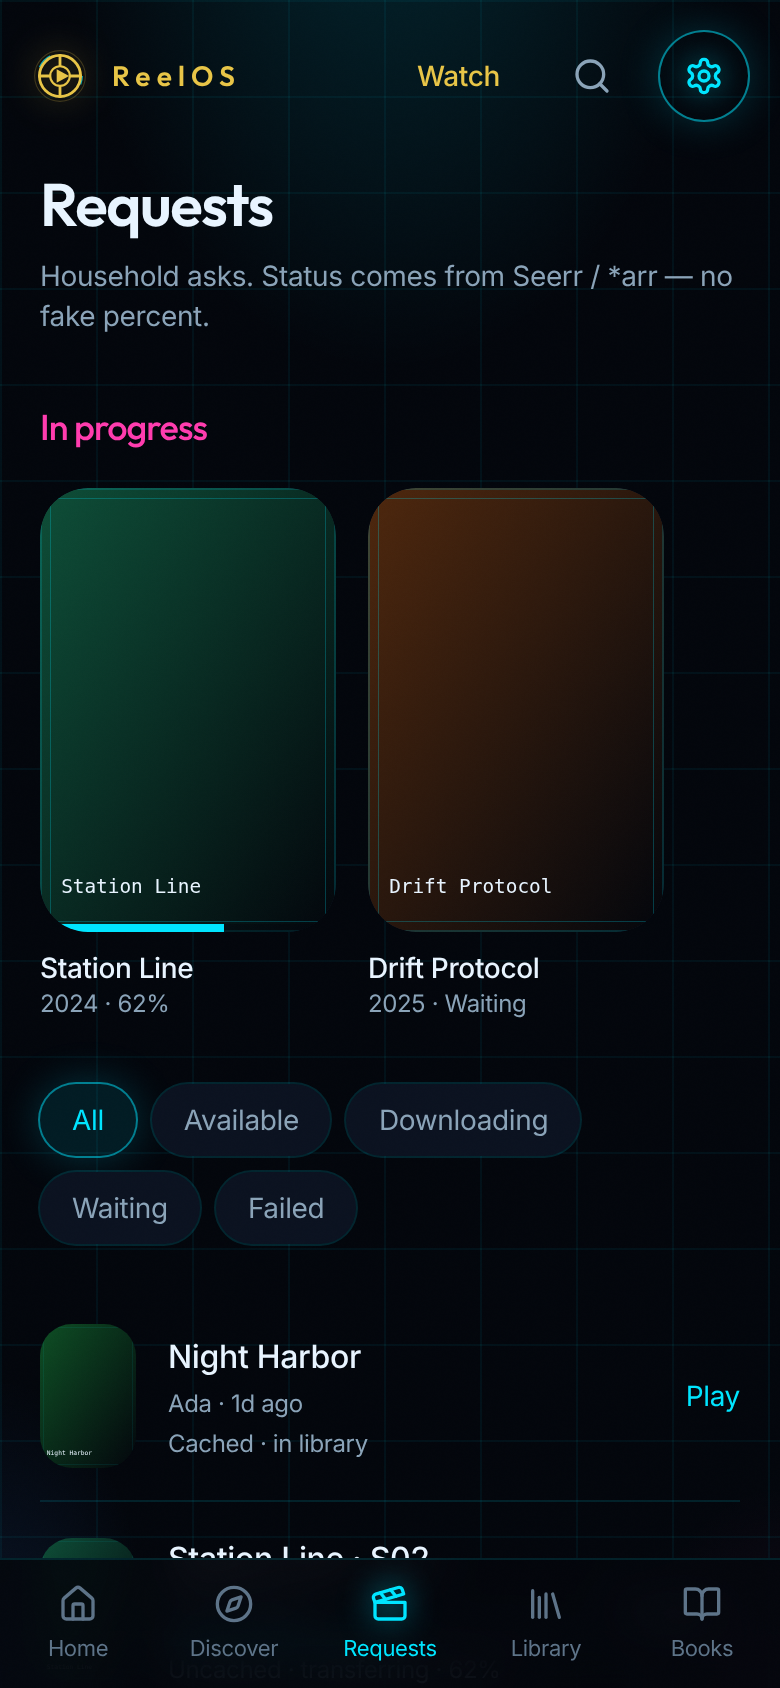
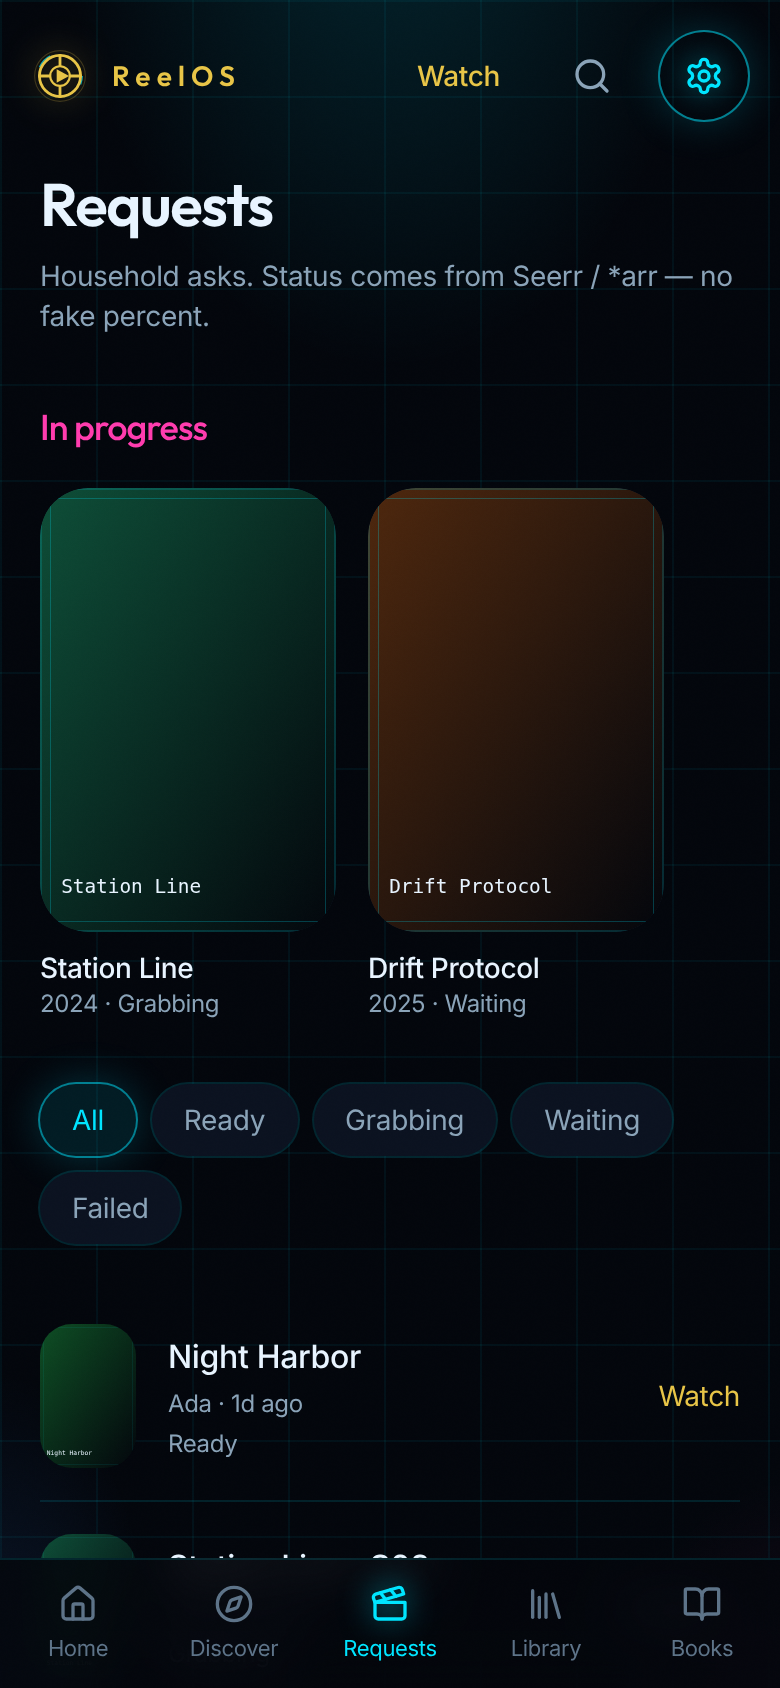
fix: Requests status is Grabbing / Waiting / Ready — no invented %
In progress cards and the list use those words only. Ready is Watch
(Jellyfin), never Send to Arr. Discover still has no In progress row.

diff --git a/src/components/requests-view.tsx b/src/components/requests-view.tsx
@@ -1,9 +1,8 @@
 import { useState } from "react";
 import { Link } from "@tanstack/react-router";
 import { getTitle } from "@/lib/catalog";
-import { viaLabel } from "@/lib/adapter";
 import { useReelStore } from "@/lib/store";
-import { isInFlightRequest } from "@/lib/sync-requests";
+import { isInFlightRequest, requestStatusWord } from "@/lib/sync-requests";
 import { useSyncRequests } from "@/lib/use-sync-requests";
 import type { RequestStatus } from "@/lib/types";
 import { formatWhen } from "@/lib/utils";
@@ -14,8 +13,8 @@ import { Button } from "@/components/ui/button";
 
 const FILTERS: { id: "all" | RequestStatus; label: string }[] = [
   { id: "all", label: "All" },
-  { id: "available", label: "Available" },
-  { id: "downloading", label: "Downloading" },
+  { id: "available", label: "Ready" },
+  { id: "downloading", label: "Grabbing" },
   { id: "waiting", label: "Waiting" },
   { id: "failed", label: "Failed" },
 ];
@@ -75,38 +74,33 @@ export function RequestsView() {
                 <p className="mt-1 text-xs text-muted">
                   {r.requester} · {formatWhen(r.createdAt)}
                 </p>
-                {r.status === "downloading" && r.progress > 0 ? (
-                  <div className="mt-2 h-1 max-w-xs overflow-hidden rounded-full bg-card-2">
-                    <div className="h-full bg-cyan" style={{ width: `${r.progress}%` }} />
-                  </div>
-                ) : null}
                 {r.status === "failed" ? (
                   <p className="mt-1 text-sm text-danger">{r.reason}</p>
                 ) : (
-                  <p className="mt-1 text-xs text-muted">
-                    {viaLabel(r.via, r.status) ??
-                      (r.status === "downloading" ? `${Math.round(r.progress)}%` : r.status)}
-                    {r.status === "downloading" && r.progress > 0 ? ` · ${Math.round(r.progress)}%` : ""}
-                    {r.release ? ` · ${r.release}` : ""}
-                  </p>
+                  <p className="mt-1 text-xs text-muted">{requestStatusWord(r.status)}</p>
                 )}
               </div>
               {r.status === "failed" ? (
                 <Button size="sm" variant="ghost" onClick={() => retry(r.id)}>
                   Retry
                 </Button>
-              ) : r.status !== "available" ? (
+              ) : r.status === "available" ? (
+                <a
+                  href={
+                    typeof window !== "undefined"
+                      ? `http://${window.location.hostname}:8096`
+                      : "http://127.0.0.1:8096"
+                  }
+                  target="_blank"
+                  rel="noreferrer"
+                  className="text-sm text-gold hover:text-gold-bright"
+                >
+                  Watch
+                </a>
+              ) : (
                 <Button size="sm" variant="quiet" onClick={() => cancel(r.id)}>
                   Cancel
                 </Button>
-              ) : (
-                <Link
-                  to="/play/$id"
-                  params={{ id: titleId }}
-                  className="text-sm text-cyan hover:text-live"
-                >
-                  Play
-                </Link>
               )}
             </li>
           );

diff --git a/src/components/title-card.tsx b/src/components/title-card.tsx
@@ -2,6 +2,7 @@ import { Link } from "@tanstack/react-router";
 import { Poster } from "@/components/poster";
 import { titleInCache } from "@/lib/adapter";
 import { useReelStore } from "@/lib/store";
+import { requestStatusWord } from "@/lib/sync-requests";
 import type { MediaRequest } from "@/lib/types";
 import type { Title } from "@/lib/types";
 import { cn } from "@/lib/utils";
@@ -36,11 +37,6 @@ export function TitleCard({
             Cached
           </span>
         ) : null}
-        {status === "downloading" ? (
-          <div className="absolute inset-x-0 bottom-0 h-1 bg-background/40">
-            <div className="h-full bg-cyan" style={{ width: `${request?.progress ?? 0}%` }} />
-          </div>
-        ) : null}
         {typeof progress === "number" && progress > 0 && progress < 0.97 ? (
           <div className="absolute inset-x-0 bottom-0 h-0.5 bg-background/40">
             <div className="h-full bg-live" style={{ width: `${progress * 100}%` }} />
@@ -50,14 +46,7 @@ export function TitleCard({
       <p className="mt-2 truncate text-sm font-medium">{title.title}</p>
       <p className="text-xs text-muted">
         {title.year}
-        {status === "available" ? (request?.via === "cache" ? " · Cached" : " · Available now") : null}
-        {status === "downloading"
-          ? request?.via === "cache"
-            ? " · Cached"
-            : ` · ${Math.round(request?.progress ?? 0)}%`
-          : null}
-        {status === "waiting" ? " · Waiting" : null}
-        {status === "failed" ? " · Failed" : null}
+        {status ? ` · ${requestStatusWord(status)}` : null}
       </p>
     </Link>
   );

diff --git a/src/lib/sync-requests.test.ts b/src/lib/sync-requests.test.ts
@@ -3,6 +3,7 @@ import { test } from "node:test";
 import {
   isInFlightRequest,
   mergeServerRequests,
+  requestStatusWord,
   showRequestQueueControls,
 } from "./sync-requests.ts";
 import type { MediaRequest } from "./types.ts";
@@ -52,6 +53,13 @@ test("transferring chip never counts available", () => {
   assert.equal(isInFlightRequest({ status: "waiting" }), true);
   assert.equal(isInFlightRequest({ status: "available" }), false);
   assert.equal(isInFlightRequest({ status: "failed" }), false);
+});
+
+test("request status words are Grabbing / Waiting / Ready — never a percent", () => {
+  assert.equal(requestStatusWord("downloading"), "Grabbing");
+  assert.equal(requestStatusWord("waiting"), "Waiting");
+  assert.equal(requestStatusWord("available"), "Ready");
+  assert.equal(requestStatusWord("failed"), "Failed");
 });
 
 test("server available upgrades a stale local downloading row for the same titleId", () => {

diff --git a/src/lib/sync-requests.ts b/src/lib/sync-requests.ts
@@ -6,6 +6,14 @@ export function isInFlightRequest(r: { status: string }): boolean {
   return IN_FLIGHT.has(r.status as RequestStatus);
 }
 
+/** Honest queue words. Never a percent — Seerr/*arr do not give a real grab %. */
+export function requestStatusWord(status: string): "Grabbing" | "Waiting" | "Ready" | "Failed" {
+  if (status === "downloading") return "Grabbing";
+  if (status === "waiting") return "Waiting";
+  if (status === "available") return "Ready";
+  return "Failed";
+}
+
 /** Movies: hide Request/Grabbing/Waiting once the title is available. TV/anime: hide only when this season is available. */
 export function showRequestQueueControls(opts: {
   kind: Kind;

diff --git a/STATUS.md b/STATUS.md
@@ -32,7 +32,7 @@ Folded the useful bits of #40 (Kavita compose, wizard chip, Connect card) and #4
 
 Global tokens in `src/styles.css` (cyan / magenta / electric blue / neon-gold on `#03060c`). Page enter, card hover glow, live chips. `prefers-reduced-motion` kills motion. Contrast kept readable (cool white + `#8aa3b8` muted).
 
-Design dialect after polish: chrome select (FilterChip) = cyan glow; commit CTAs stay gold. Books uses `--shadow-magenta` (source chips, Kavita card, Library→Books hop, Discover Books group). Row labels: magenta **In progress** (Requests only), gold **Continue** (Home), cyan otherwise. Discover idle has no active-request chrome. Home after provision says “On the shelf”, not the install slogan. `.tron-grid` breathes via `grid-breathe` (reduced-motion off). Phone header Settings gear has title + cyan glow.
+Design dialect after polish: chrome select (FilterChip) = cyan glow; commit CTAs stay gold. Books uses `--shadow-magenta` (source chips, Kavita card, Library→Books hop, Discover Books group). Row labels: magenta **In progress** (Requests only — Grabbing / Waiting / Ready words, no invented %), gold **Continue** (Home), cyan otherwise. Discover idle has no active-request chrome. Ready = Watch / open, never Send to Arr. Home after provision says “On the shelf”, not the install slogan. `.tron-grid` breathes via `grid-breathe` (reduced-motion off). Phone header Settings gear has title + cyan glow.
 
 ## Stack kept from 1.2.50
 
